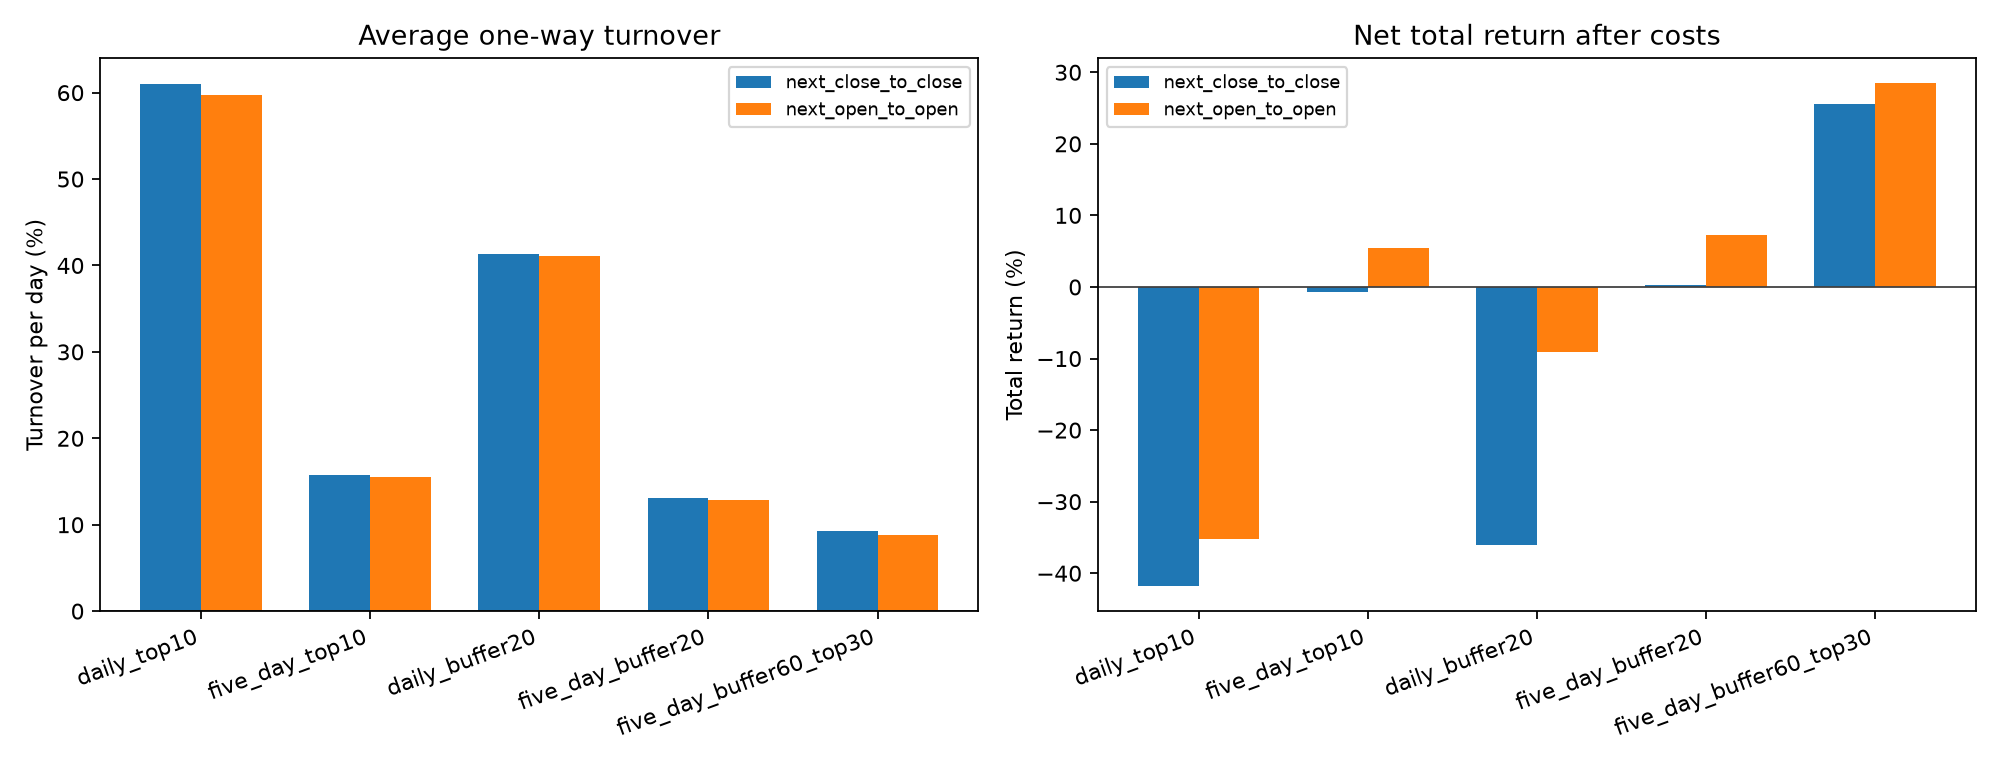
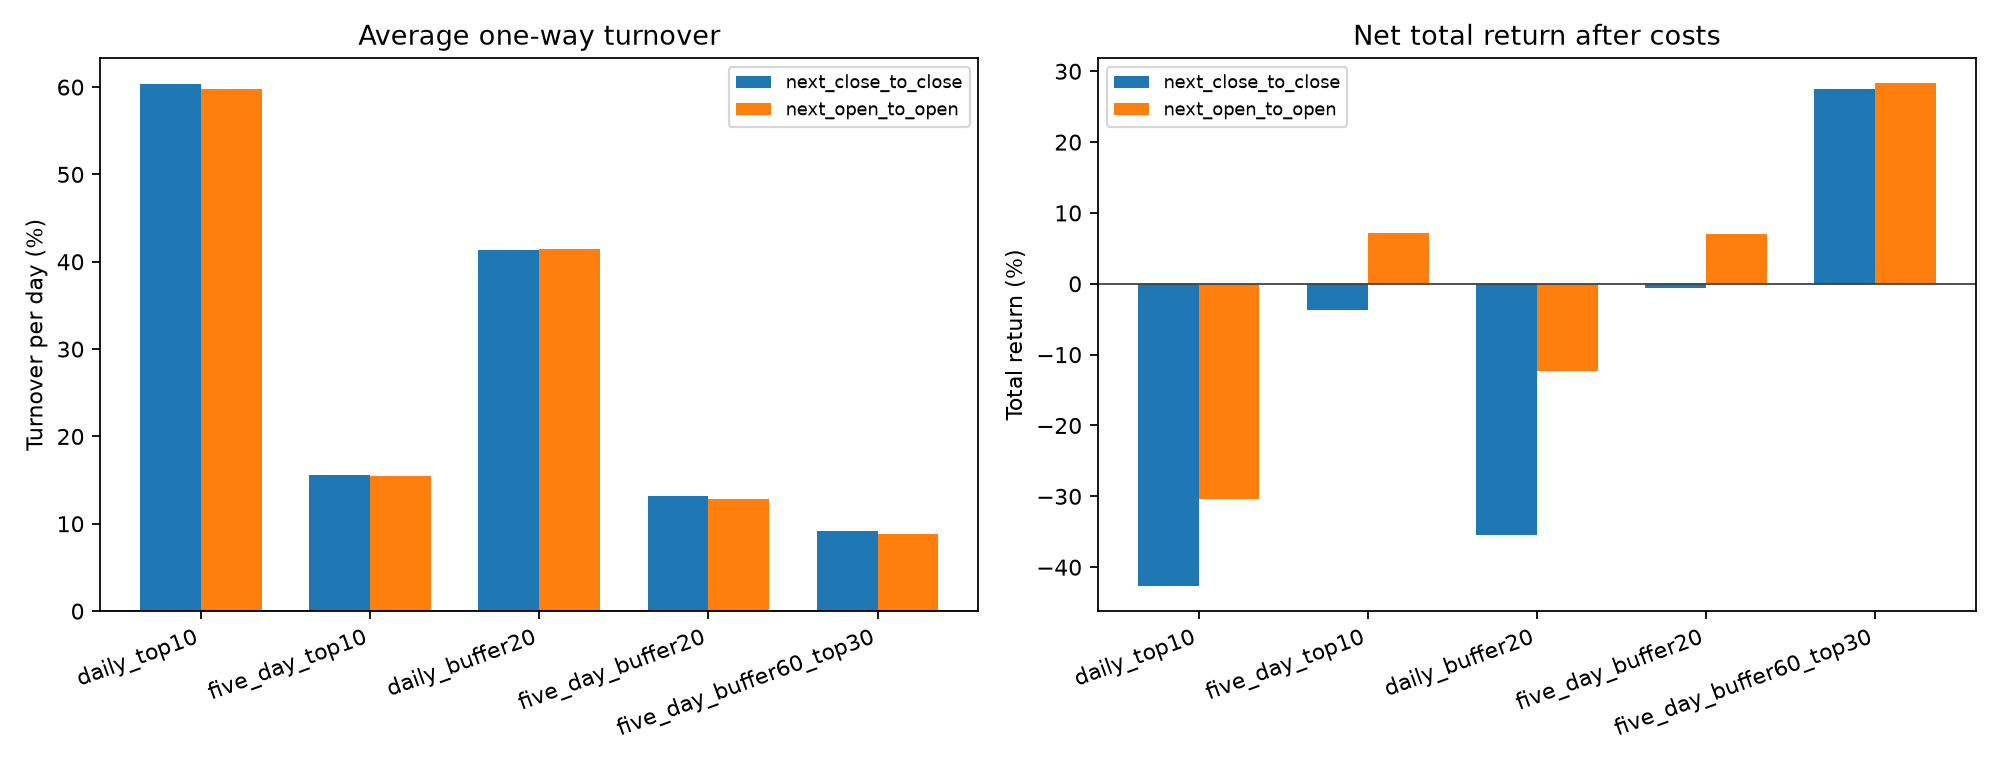
Update project visuals from latest report

diff --git a/index.html b/index.html
@@ -1503,12 +1503,12 @@
 
             <div class="quant-visuals">
               <figure>
-                <img src="quant_turnover.png" alt="Comparison of turnover policies and net returns after transaction costs" width="2000" height="768" loading="lazy" />
+                <img src="quant_turnover.png?v=20260811" alt="Comparison of turnover policies and net returns after transaction costs" width="2000" height="768" loading="lazy" />
                 <figcaption data-lang="en">Turnover policy and cost-aware return comparison</figcaption>
                 <figcaption data-lang="zh">换手政策与成本后收益对比</figcaption>
               </figure>
               <figure>
-                <img src="quant_lstm_models.png" alt="Walk-forward out-of-sample comparison of LSTM and baseline models" width="1520" height="768" loading="lazy" />
+                <img src="quant_lstm_models.png?v=20260811" alt="Walk-forward out-of-sample comparison of LSTM and baseline models" width="1520" height="768" loading="lazy" />
                 <figcaption data-lang="en">Strict walk-forward out-of-sample model comparison</figcaption>
                 <figcaption data-lang="zh">严格 walk-forward 样本外模型比较</figcaption>
               </figure>
